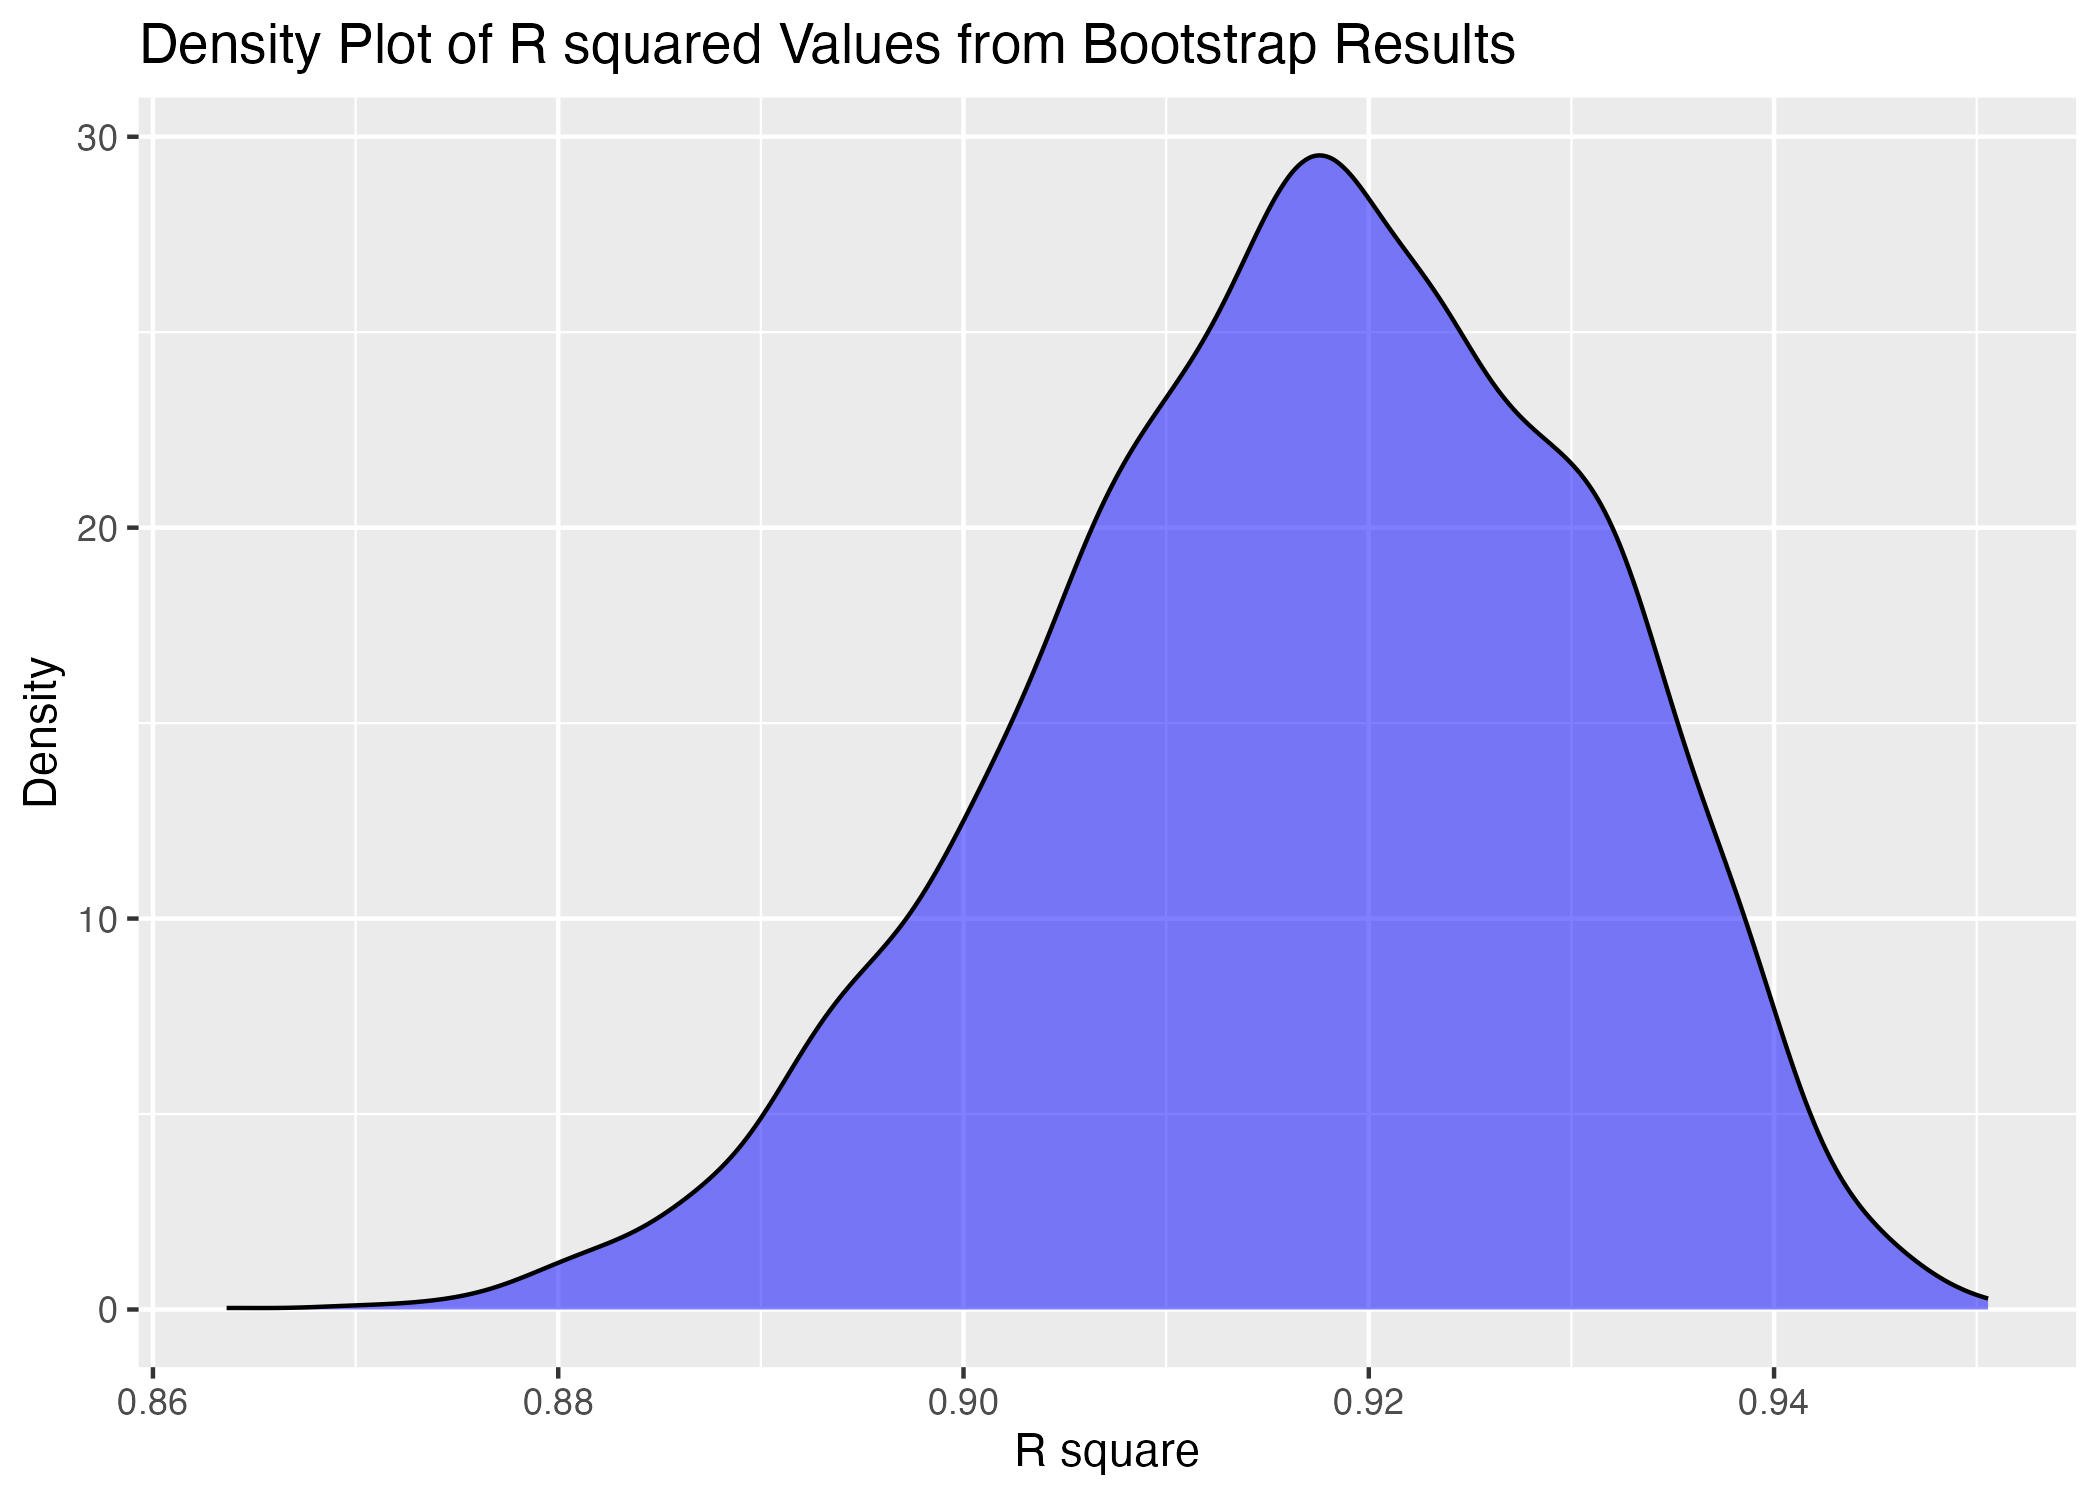
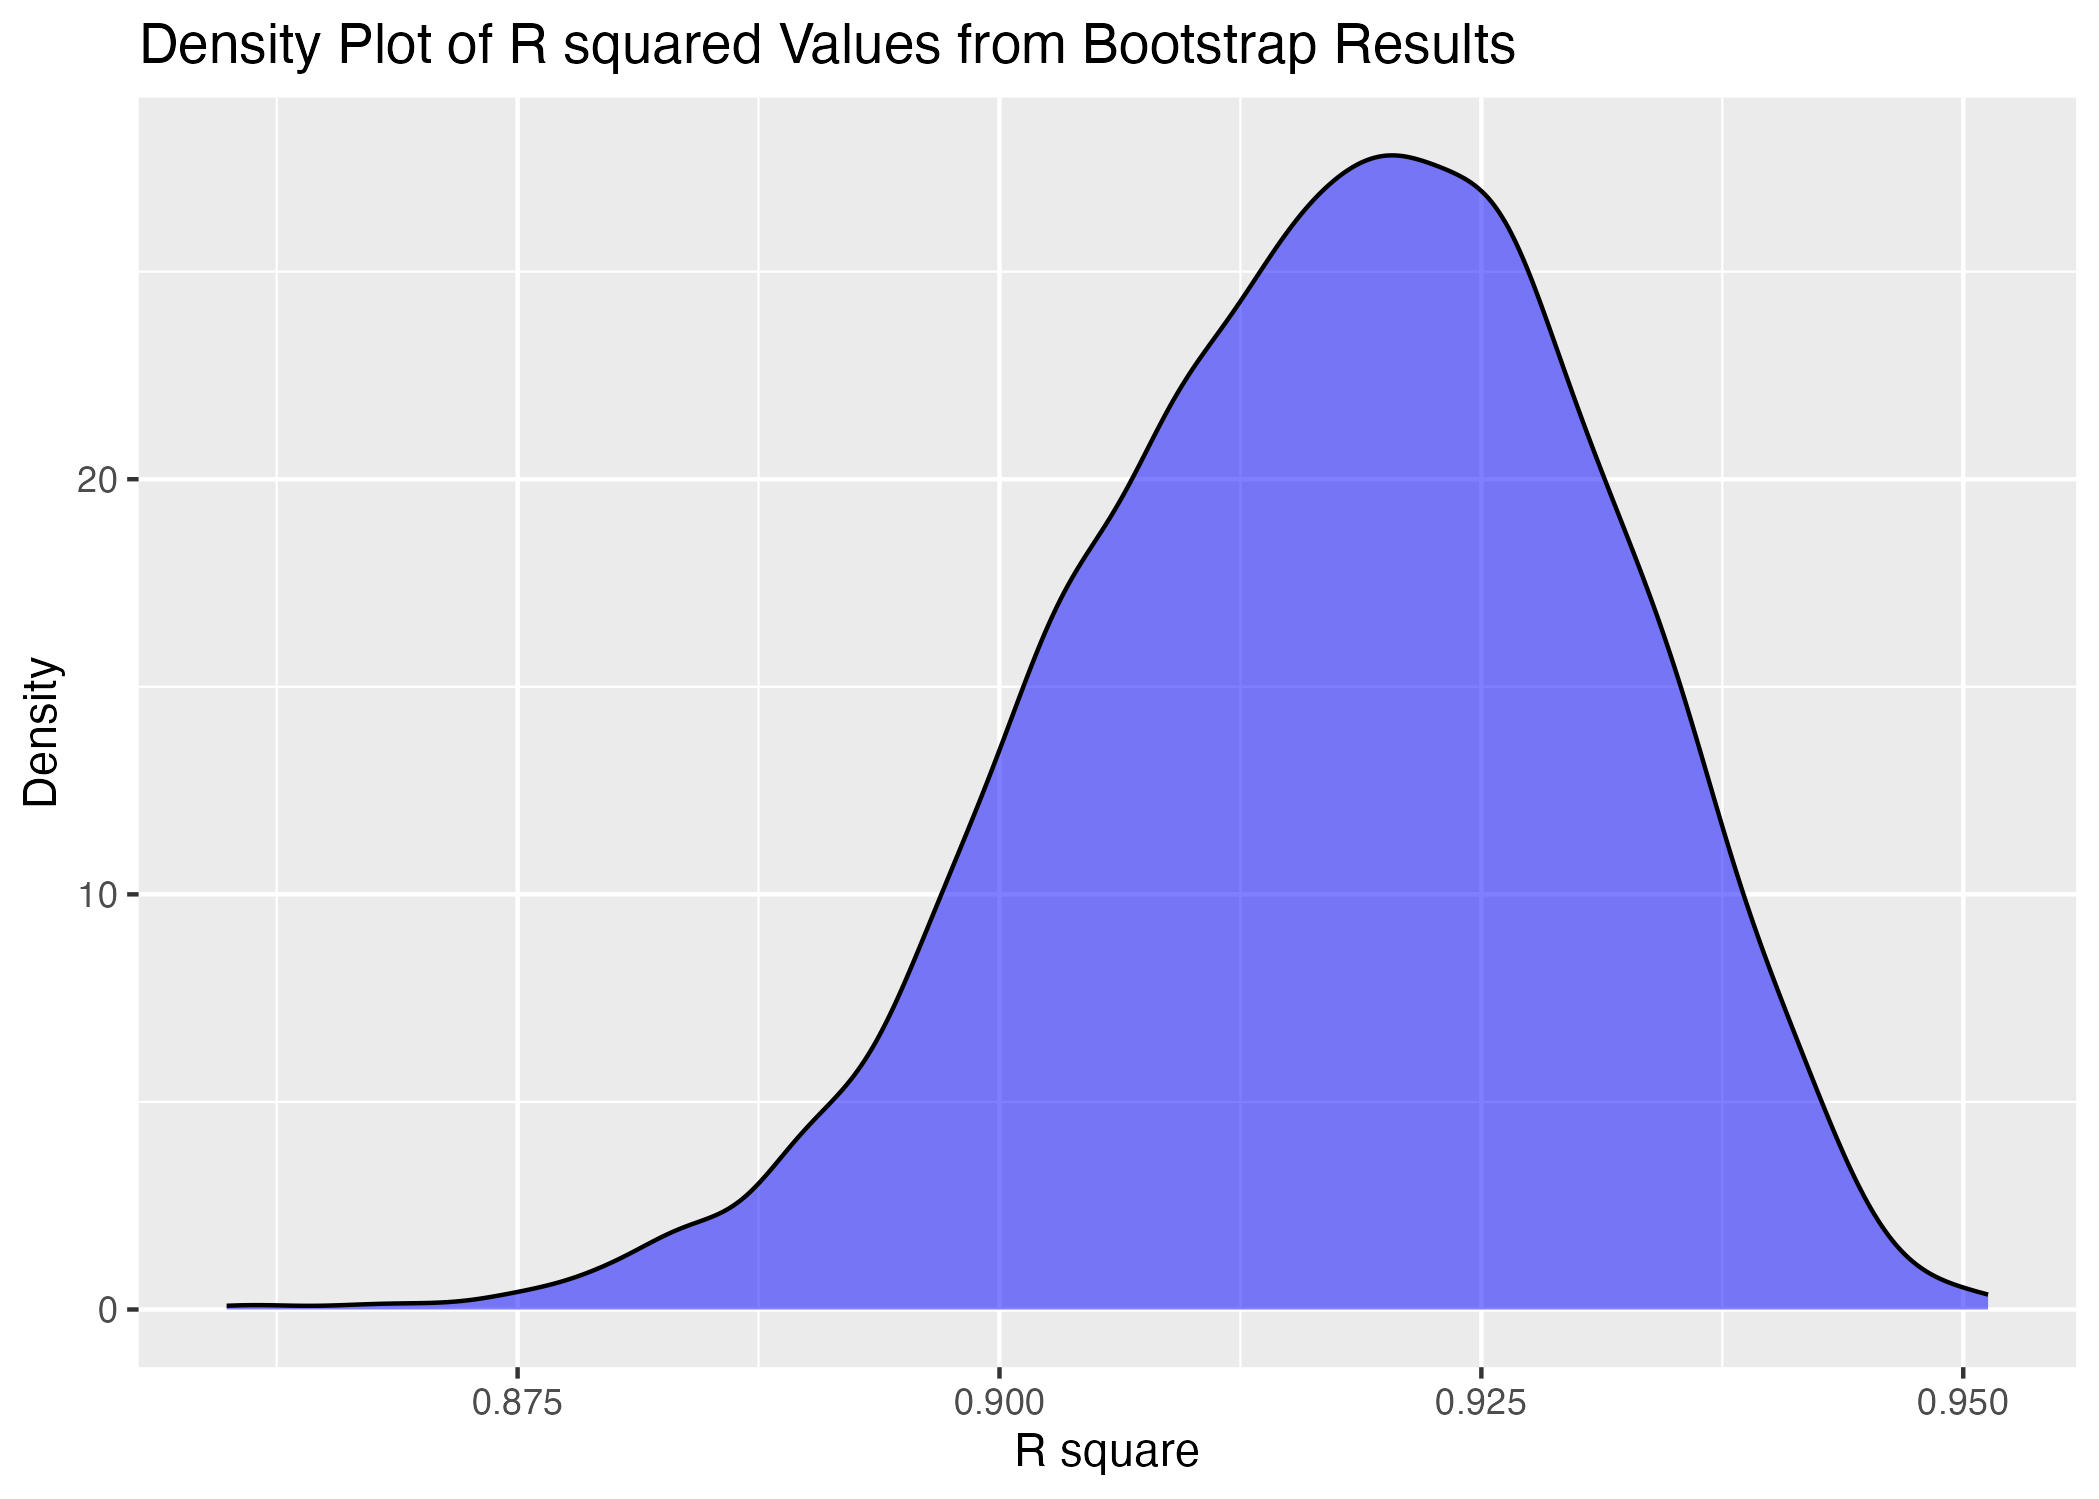
optimized the model in problem 3

diff --git a/homework6.md b/homework6.md
@@ -160,18 +160,18 @@ results
 ```
 
     ## # A tibble: 5,000 × 6
-    ##    strap_number r_square `(Intercept)`  tmin       prcp log_product
-    ##           <int>    <dbl>         <dbl> <dbl>      <dbl>       <dbl>
-    ##  1            1    0.907          8.05  1.01 -0.00194        NaN   
-    ##  2            2    0.926          8.25  1.01 -0.00709        NaN   
-    ##  3            3    0.921          8.01  1.02 -0.00437        NaN   
-    ##  4            4    0.917          8.22  1.01  0.00238         -6.03
-    ##  5            5    0.906          8.00  1.01  0.00492         -5.30
-    ##  6            6    0.922          7.96  1.02 -0.0000308      NaN   
-    ##  7            7    0.912          8.16  1.01 -0.00260        NaN   
-    ##  8            8    0.910          8.13  1.03 -0.00761        NaN   
-    ##  9            9    0.933          7.51  1.05 -0.00554        NaN   
-    ## 10           10    0.914          8.16  1.01 -0.00113        NaN   
+    ##    strap_number r_square `(Intercept)`  tmin      prcp log_product
+    ##           <int>    <dbl>         <dbl> <dbl>     <dbl>       <dbl>
+    ##  1            1    0.899          8.20 0.989  0.00732        -4.93
+    ##  2            2    0.923          8.01 1.01   0.000531       -7.53
+    ##  3            3    0.916          7.99 1.03  -0.00372       NaN   
+    ##  4            4    0.926          7.79 1.02   0.00323        -5.71
+    ##  5            5    0.922          7.87 1.02  -0.00254       NaN   
+    ##  6            6    0.911          8.02 0.998  0.00462        -5.38
+    ##  7            7    0.909          8.36 0.998 -0.00771       NaN   
+    ##  8            8    0.936          8.02 1.03  -0.00654       NaN   
+    ##  9            9    0.910          8.17 1.01  -0.00287       NaN   
+    ## 10           10    0.922          7.95 1.01   0.00272        -5.90
     ## # ℹ 4,990 more rows
 
 ### Plots of the distributions
@@ -260,7 +260,7 @@ percentage_na_log_product <- (num_na_logprod / total_observations)
 percentage_na_log_product
 ```
 
-    ## [1] 0.6612
+    ## [1] 0.6742
 
 The percentage of NA in the log(beta1\*beta2) is 0.672.
 
@@ -278,7 +278,7 @@ results |>
     ## # A tibble: 1 × 2
     ##   log_lower log_upper
     ##       <dbl>     <dbl>
-    ## 1     -8.85     -4.50
+    ## 1     -8.88     -4.58
 
 ``` r
 # Confidence Interval for r_squared
@@ -292,7 +292,7 @@ results |>
     ## # A tibble: 1 × 2
     ##   r_squared_lower r_squared_upper
     ##             <dbl>           <dbl>
-    ## 1           0.889           0.940
+    ## 1           0.889           0.941
 
 The 95% confidence interval for log(beta1\*beta2) is (-9.055, -4.536).
 The 95% confidence interval for r square is (0.888, 0.940).
@@ -384,24 +384,67 @@ summary(model)
     ## Multiple R-squared:  0.6248, Adjusted R-squared:  0.623 
     ## F-statistic: 359.7 on 20 and 4321 DF,  p-value: < 2.2e-16
 
+According to the model summary, we can see that a few factors are
+significant with p value less than 0.05, such as smoken, parity, ppwt,
+and gaweek. However, there are also a lot of variables that are non
+significant with p value greater than 0.05, such as frace, malform,
+menarche, mheight, momage, mrace, ppbmi. There are also some factors
+producing NA values, such as wtgain, pnumlbw, and pnumsga.
+
+Based on this result, we can drop some variables with NA values such as
+wtgain, pnumlbw, and pnumsga and some variables that have large p values
+to get our model.
+
+``` r
+model_ori <- lm(bwt ~ babysex + blength + delwt + fincome + gaweeks + mheight + parity + ppwt + smoken, data = data)
+
+
+summary(model_ori)
+```
+
+    ## 
+    ## Call:
+    ## lm(formula = bwt ~ babysex + blength + delwt + fincome + gaweeks + 
+    ##     mheight + parity + ppwt + smoken, data = data)
+    ## 
+    ## Residuals:
+    ##     Min      1Q  Median      3Q     Max 
+    ## -1612.0  -205.0   -10.3   198.3  3963.7 
+    ## 
+    ## Coefficients:
+    ##               Estimate Std. Error t value Pr(>|t|)    
+    ## (Intercept) -4724.0411   145.2280 -32.528  < 2e-16 ***
+    ## babysexmale    20.0298     9.8797   2.027 0.042686 *  
+    ## blength       120.1891     2.0041  59.971  < 2e-16 ***
+    ## delwt           5.0184     0.4619  10.864  < 2e-16 ***
+    ## fincome         1.6877     0.1918   8.800  < 2e-16 ***
+    ## gaweeks        25.2978     1.6858  15.006  < 2e-16 ***
+    ## mheight         7.3041     2.0710   3.527 0.000425 ***
+    ## parity        135.6330    47.7291   2.842 0.004508 ** 
+    ## ppwt           -3.2569     0.5052  -6.447 1.27e-10 ***
+    ## smoken         -3.7540     0.6679  -5.620 2.02e-08 ***
+    ## ---
+    ## Signif. codes:  0 '***' 0.001 '**' 0.01 '*' 0.05 '.' 0.1 ' ' 1
+    ## 
+    ## Residual standard error: 322.4 on 4332 degrees of freedom
+    ## Multiple R-squared:  0.6047, Adjusted R-squared:  0.6038 
+    ## F-statistic: 736.2 on 9 and 4332 DF,  p-value: < 2.2e-16
+
 ``` r
 data |>
-  add_predictions(model) |>
-  add_residuals(model) |>
+  add_predictions(model_ori) |>
+  add_residuals(model_ori) |>
   ggplot(aes(x = pred, y = resid)) +
   geom_point() +
   geom_hline(yintercept = 0, linetype = "dashed", color = "blue") +
   labs(x = "Fitted Values", y = "Residuals", title = "Residuals vs Fitted Plot for Birthweight Model")
 ```
 
-![](homework6_files/figure-gfm/unnamed-chunk-8-1.png)<!-- --> According
-to the model summary, we can see that a few factors are significant with
-p value less than 0.05, such as smoken, parity, ppwt, and gaweek.
-However, there are also a lot of variables that are non significant with
-p value greater than 0.05, such as frace, malform, menarche, mheight,
-momage, mrace, ppbmi. There are also some factors producing NA values,
-such as wtgain, pnumlbw, and pnumsga. The very small p-value here
-suggests that the model is statistically significant.
+![](homework6_files/figure-gfm/unnamed-chunk-9-1.png)<!-- --> After
+optimizing the model based on the very rough model, we can see that all
+variables are statistically significant in this new model with p values
+less than 0.05. The very small p-value here suggests that the model is
+statistically significant.
 
 ``` r
 set.seed(123)
